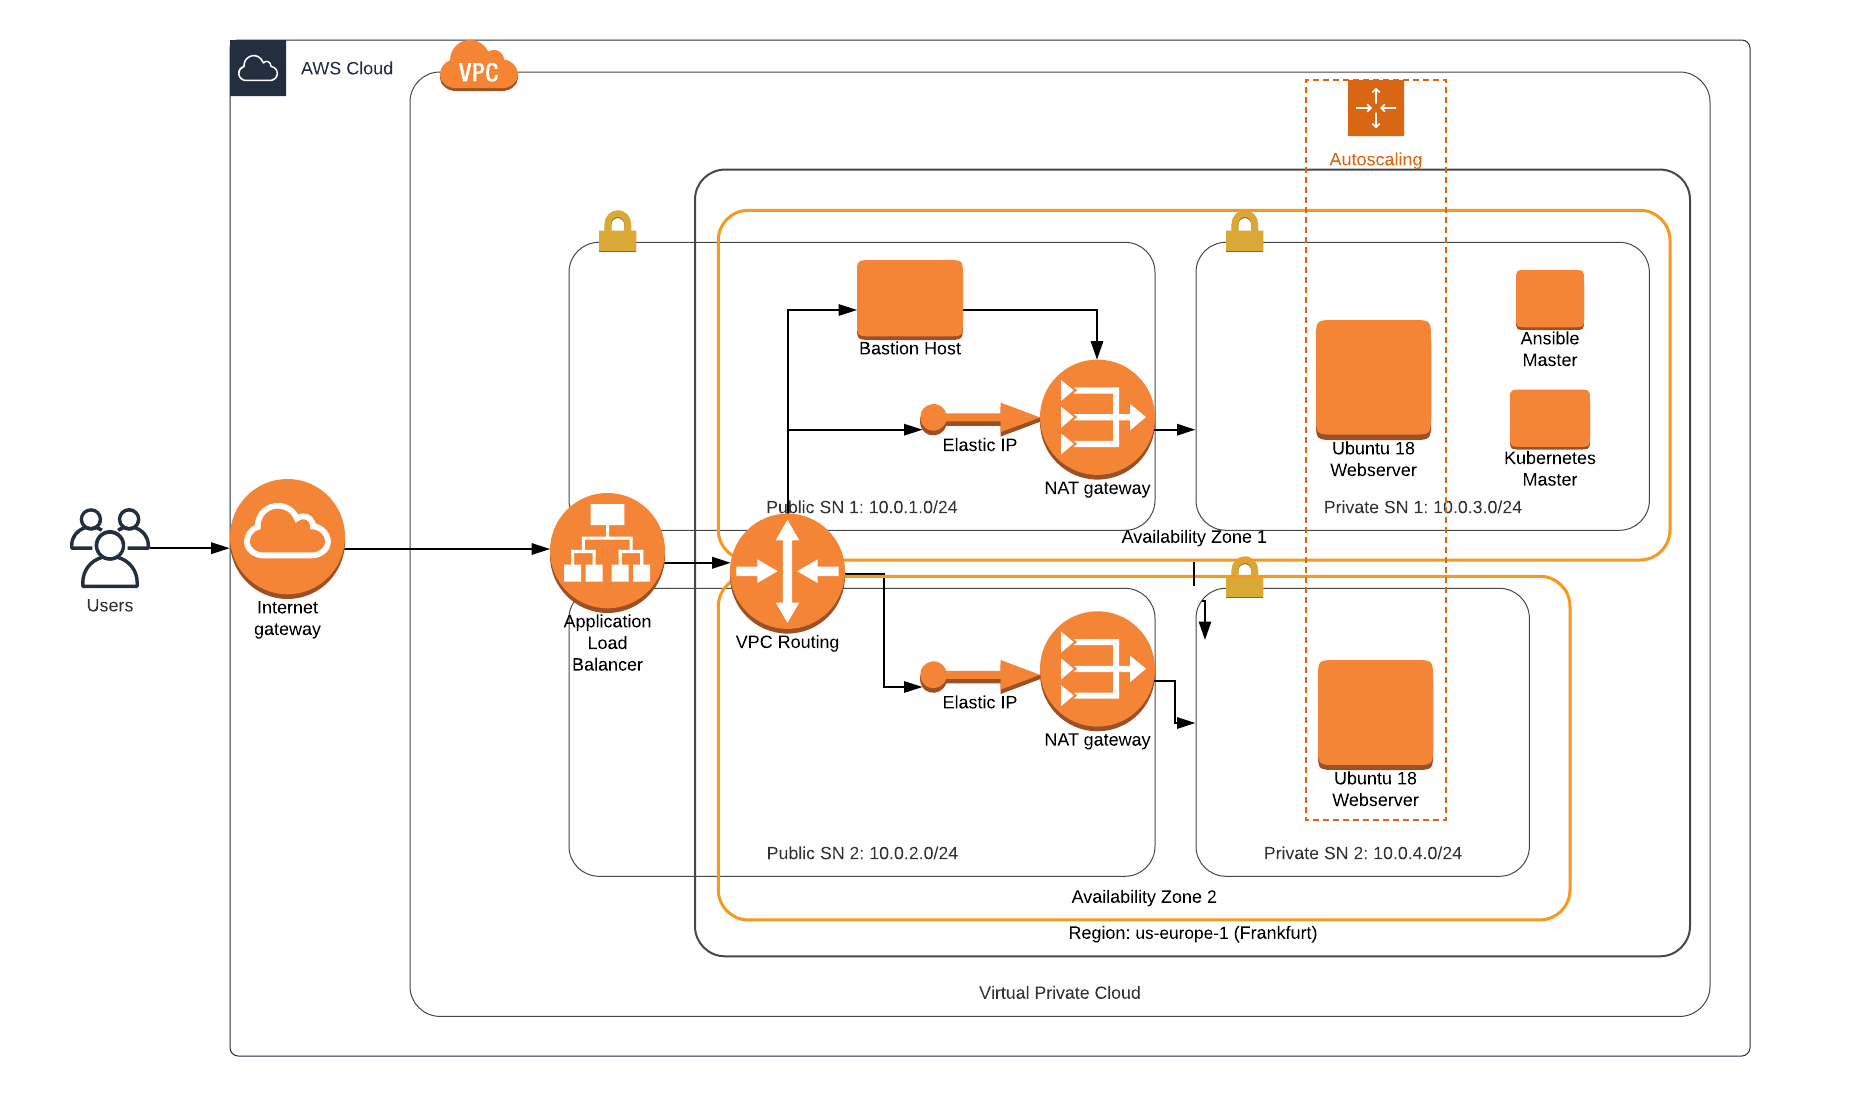
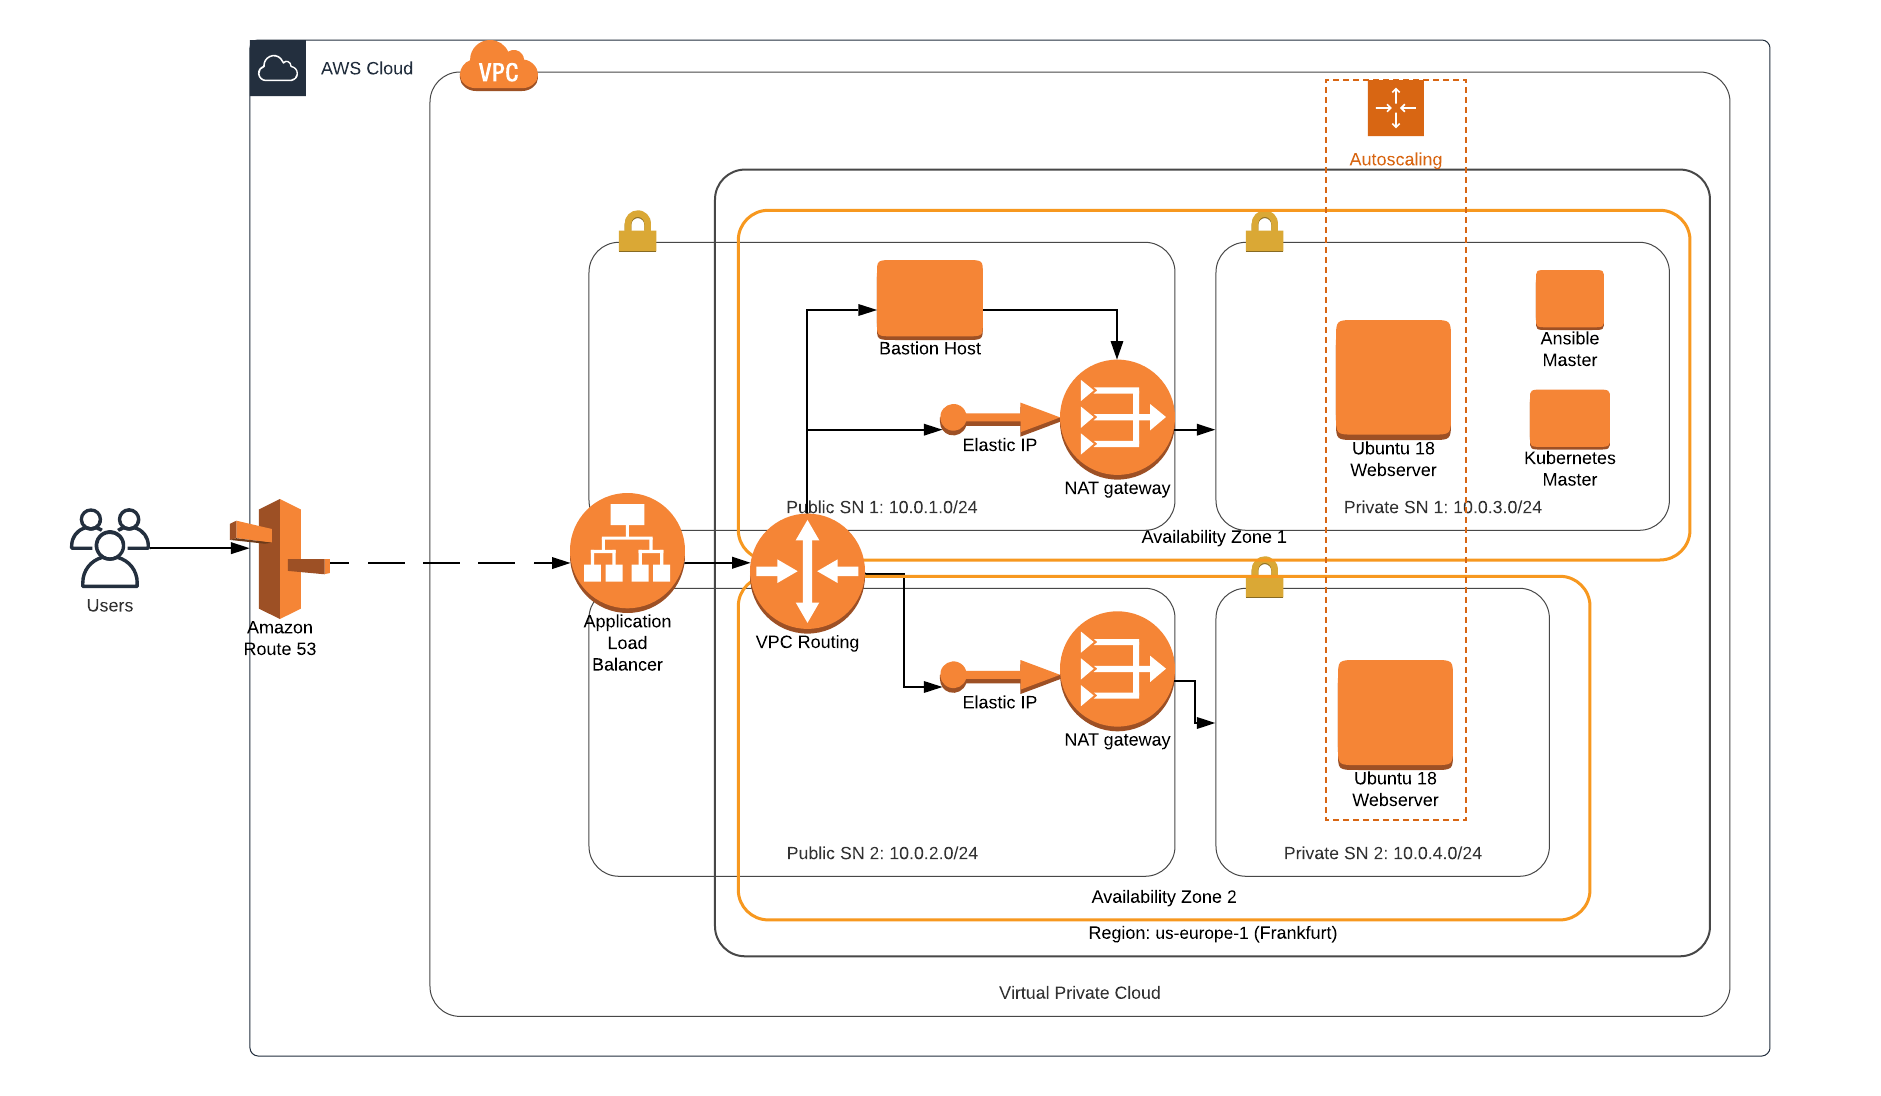
Add Weighted dns picture

diff --git a/README.md b/README.md
@@ -146,7 +146,11 @@ For minor changes in the infrastructure that are well expectable in its behavior
 ./run_infrastructure -u --module <module-name> <deployment-name>
 ```
 
-However, whenever an bigger infrastructural update ready to be deployed in production, the infrastructure should be spawned in parallel and users should be redirected using the weighted DNS. The DNS is setup by running
+However, whenever an bigger infrastructural update ready to be deployed in production, the infrastructure should be spawned in parallel and users should be redirected using the weighted DNS. This is visualized in the diagram below.
+
+![Weighted DNS](resources/weighted_dns.png)
+
+The DNS is setup by running
 
 ```
 ./run_infrastructure --module dns <unique-name>
